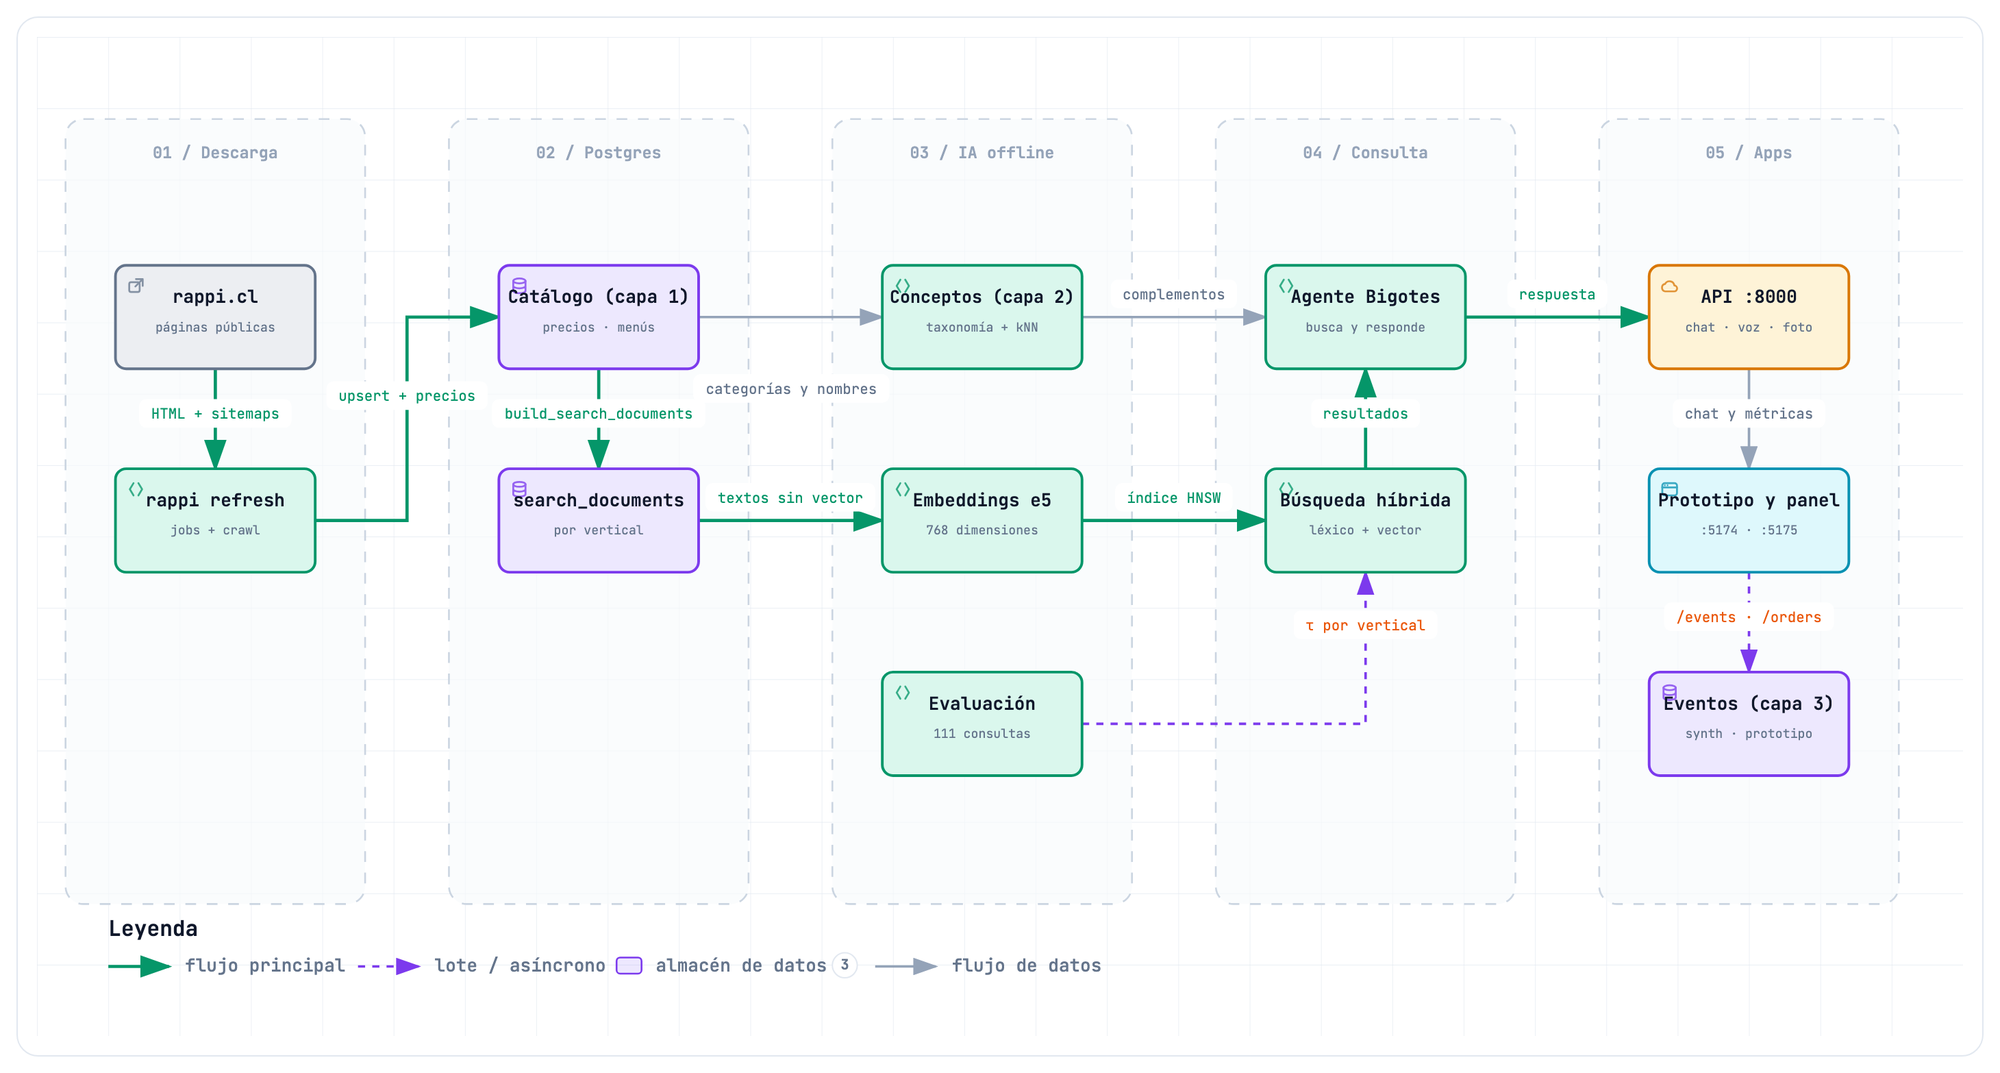
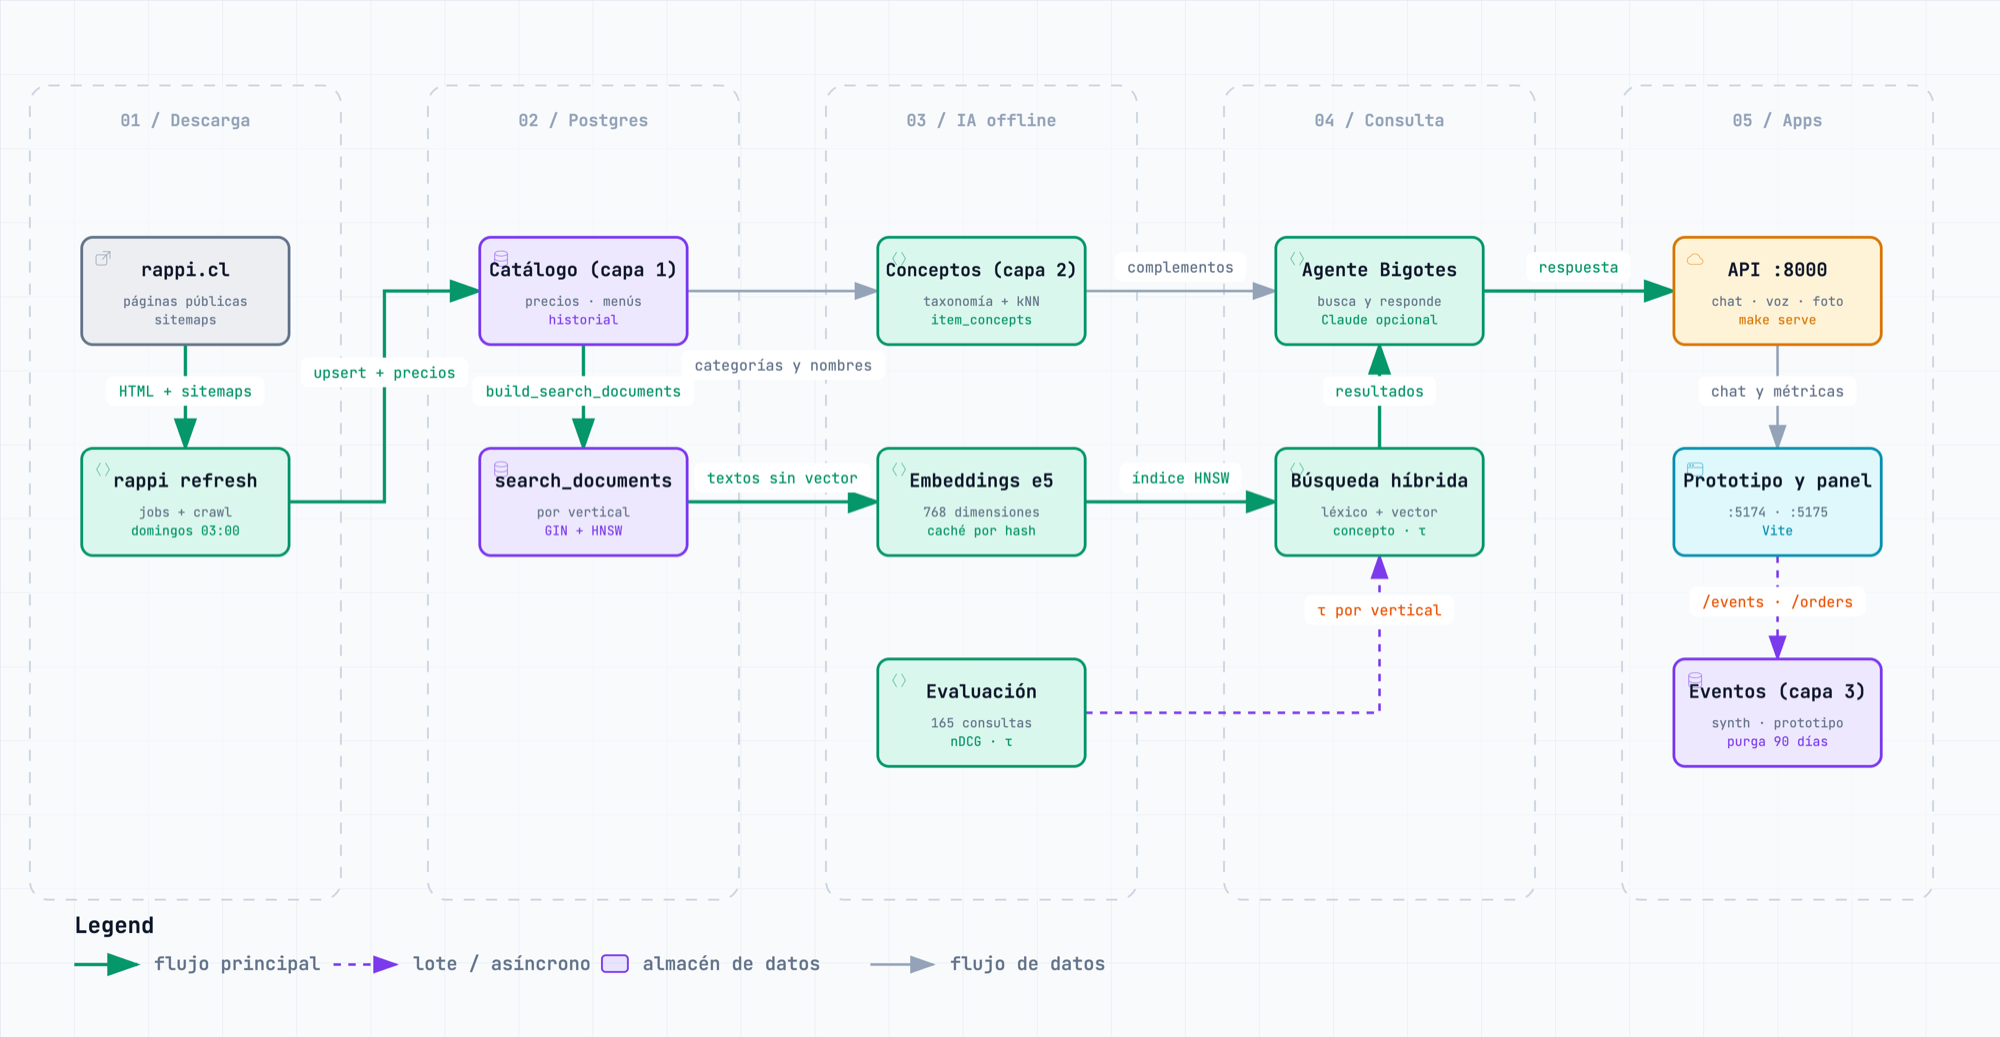
docs: diagrama del RAG con el set de evaluación renovado (165 consultas)
Regenerado con Archify (deliver dataflow --quality showcase: 0 errores, 0
avisos; visual-check en Chrome: pass). El PNG sale del menú Exportar → PNG
del visor, reducido a 2000 px de ancho.

diff --git a/docs/diagramas/rag-datos.html b/docs/diagramas/rag-datos.html
@@ -5274,15 +5274,15 @@ OTHER DEALINGS IN THE FONT SOFTWARE.
         <text data-detail="fine" x="530" y="289" class="t-backend" font-size="7" text-anchor="middle">caché por hash</text>
         </g>
 
-        <g id="node-eval" data-node-id="eval" data-node-label="Evaluación" tabindex="0" role="button" aria-label="Focus Evaluación, 111 consultas, 03 / IA offline" aria-pressed="false" data-node-kind="backend" data-node-sublabel="111 consultas" data-node-tag="nDCG · τ" data-node-context="03 / IA offline">
-          <title>Evaluación · 111 consultas · 03 / IA offline · nDCG · τ</title>
+        <g id="node-eval" data-node-id="eval" data-node-label="Evaluación" tabindex="0" role="button" aria-label="Focus Evaluación, 165 consultas, 03 / IA offline" aria-pressed="false" data-node-kind="backend" data-node-sublabel="165 consultas" data-node-tag="nDCG · τ" data-node-context="03 / IA offline">
+          <title>Evaluación · 165 consultas · 03 / IA offline · nDCG · τ</title>
           <rect x="474" y="356" width="112" height="58" rx="6" class="c-mask"/>
           <rect x="474" y="356" width="112" height="58" rx="6" class="c-backend" stroke-width="1.5"/>
           <g aria-hidden="true" data-semantic-sigil="backend" class="semantic-sigil s-backend" transform="translate(480 362) scale(0.6875)">
             <path d="M6 3 3 8l3 5M10 3l3 5-3 5"/>
           </g>
           <text data-node-label="" data-detail-anchor="" x="530" y="377" class="t-primary" font-size="10" font-weight="600" text-anchor="middle">Evaluación</text>
-          <text data-detail="context" x="530" y="393" class="t-muted" font-size="7" text-anchor="middle">111 consultas</text>
+          <text data-detail="context" x="530" y="393" class="t-muted" font-size="7" text-anchor="middle">165 consultas</text>
         <text data-detail="fine" x="530" y="403" class="t-backend" font-size="7" text-anchor="middle">nDCG · τ</text>
         </g>
 
